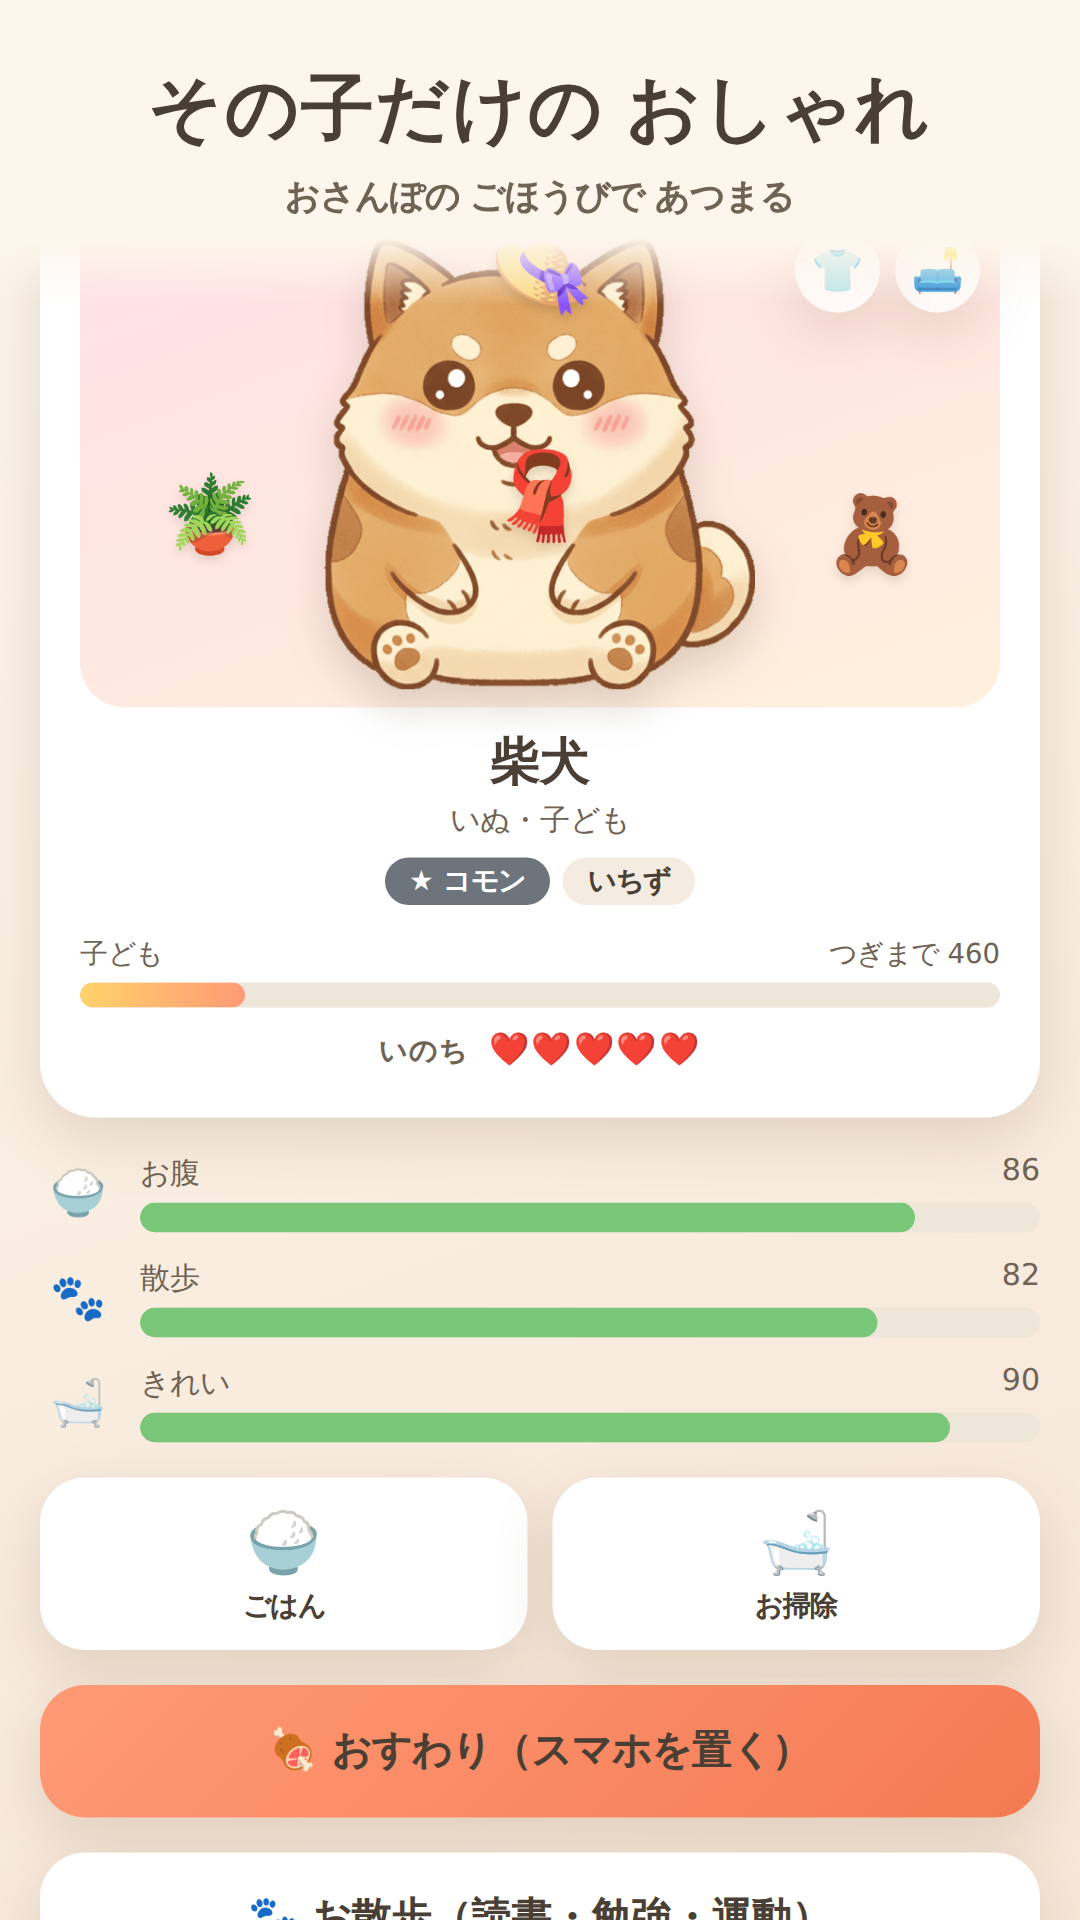
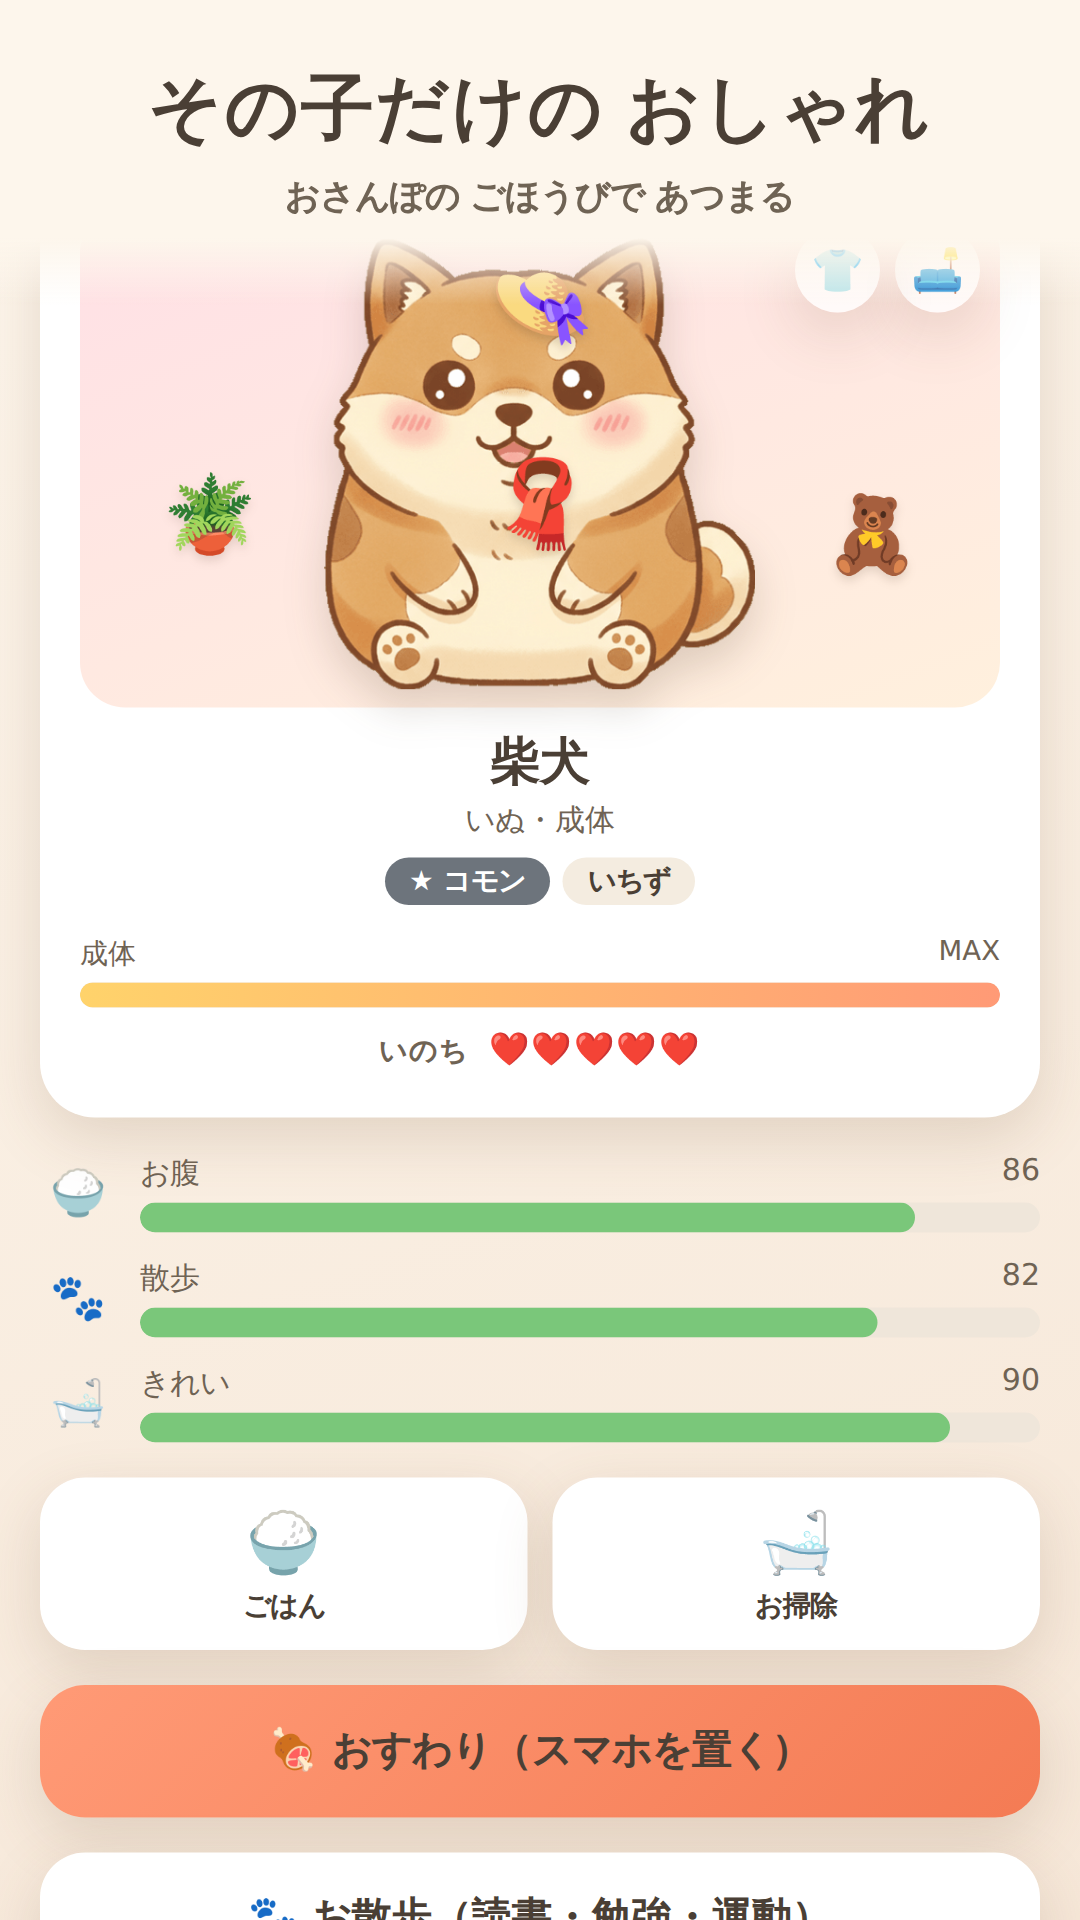
成長段階の縮小表示にきせかえ・模様レイヤーを追従（リグレッション修正）
前コミットで成長段階の絵を縮小表示にした際、重ねレイヤーが元の原寸のままで
赤ちゃん/子どもだと かざりが宙に浮き、模様も体からずれていた（ストア4枚目で発覚）。

- fitToPetArt(): 表示中の絵と同じ bottom-center 基準で scale する共通ヘルパを追加
  （.pet-wear は left:50%+translateX(-50%) の固定192px枠なので % 指定ではなく transform で合わせる）
- ホームのきせかえ層・模様層、きせかえエディタの配置層に適用。
  エディタのドラッグ座標系も絵の矩形基準に修正（縮小中でも指の位置と一致する）
- 回帰用スナップショット home-dressed-baby / home-dressed-adult を追加し目視確認
- ストア素材は成体(xp900)で撮影するよう変更（絵が原寸＝DESIGN.md §10「顔が画面の1/3以上」を満たす）。
  麦わらの位置も微調整して全13点を再生成

unit 44・E2E 26 すべて緑

Claude-Session: https://claude.ai/code/session_01HXj7nsinXTwSULfXn8piTK

diff --git a/docs/app/js/ui.js b/docs/app/js/ui.js
@@ -668,11 +668,24 @@
   var RARE_WEAR_IDS = Engine.MILESTONES.map(function (m) { return m.wear; });
   // 装備中のアクセサリをペットの上に重ねる（home stage）
   // 着けているアクセサリを ペットの上に自由配置(x,y=0..1)で重ねる
+  // 重ねレイヤー（きせかえ・模様）を「表示中のペット絵」と同じ大きさ・位置にそろえる。
+  // 成長段階の絵は下寄せ中央で縮小して描くので、レイヤーも bottom-center 基準で同率に縮める。
+  // base は要素がもともと必要とする transform（.pet-wear の translateX(-50%) など）。
+  function fitToPetArt(el, info, base) {
+    var s = (info && info.scale > 0 && info.scale < 1) ? info.scale : 1;
+    el.style.transformOrigin = 'bottom center';
+    el.style.transform = (base || '') + (s < 1 ? ' scale(' + s + ')' : '');
+  }
+  function petArtInfo() {
+    return Art.stageSpriteInfo ? Art.stageSpriteInfo(Engine.breed(), Engine.stage()) : null;
+  }
+
   function renderWear() {
     var el = $('petWear'); if (!el) return;
     var items = Engine.wardrobe().items || [];
     if (!items.length || Engine.stage() === 0) { el.style.display = 'none'; el.innerHTML = ''; return; }
     el.style.display = 'block';
+    fitToPetArt(el, petArtInfo(), 'translateX(-50%)'); // .pet-wear は left:50% ＋ 中央寄せ transform が前提
     el.innerHTML = items.map(function (p) {
       var it = WEAR[p.id]; if (!it) return '';
       return '<span class="pet-wear-item" style="left:' + (p.x * 100) + '%;top:' + (p.y * 100) + '%">' + it.e + '</span>';
@@ -709,14 +722,7 @@
     var layer = document.createElement('div');
     layer.className = 'pet-mark'; // 表示中の絵と同じ領域を覆い、スプライト形にマスク＝体外はカット
     if (spr) { var u = "url('assets/sprites/" + spr + ".png')"; layer.style.webkitMaskImage = u; layer.style.maskImage = u; }
-    if (info && info.scale < 1) {
-      // 縮小表示（下寄せ・中央）に合わせてマスク層も同じ矩形へ
-      layer.style.inset = 'auto';
-      layer.style.bottom = '0';
-      layer.style.left = ((1 - info.scale) / 2 * 100) + '%';
-      layer.style.width = (info.scale * 100) + '%';
-      layer.style.height = (info.scale * 100) + '%';
-    }
+    fitToPetArt(layer, info);
     var sym = document.createElement('span');
     sym.className = 'pet-mark-sym';
     sym.textContent = MARK_SYM[mk];
@@ -782,6 +788,11 @@
     var edit = m.root.querySelector('#wearEdit');
     var petBox = m.root.querySelector('#wearEditPet');
     if (petBox && Engine.stage() > 0) Art.mount(petBox, Art.petSVG(Engine.breed(), Engine.stage(), 'happy'));
+    // アクセサリはペット絵と同じ矩形の中に置く（成長段階で絵が縮むので座標系を合わせる）
+    var wearLayer = document.createElement('div');
+    wearLayer.style.cssText = 'position:absolute;left:0;top:0;width:100%;height:100%';
+    fitToPetArt(wearLayer, petArtInfo());
+    edit.appendChild(wearLayer);
     function paintWear() {
       // ペット絵は残し、アクセサリだけ差し替え
       Array.prototype.forEach.call(edit.querySelectorAll('.wear-edit-item'), function (n) { n.remove(); });
@@ -792,7 +803,7 @@
         span.setAttribute('data-index', i);
         span.style.left = (p.x * 100) + '%'; span.style.top = (p.y * 100) + '%';
         span.innerHTML = it.e + '<button class="room-edit-x" data-del="' + i + '" aria-label="ぬぐ">×</button>';
-        edit.appendChild(span);
+        wearLayer.appendChild(span);
       });
     }
     paintWear();
@@ -826,7 +837,7 @@
     });
     edit.addEventListener('pointermove', function (e) {
       if (!drag) return;
-      var rect = edit.getBoundingClientRect();
+      var rect = wearLayer.getBoundingClientRect(); // 座標系はペット絵の矩形
       var x = Math.max(0, Math.min(1, (e.clientX - rect.left) / rect.width));
       var y = Math.max(0, Math.min(1, (e.clientY - rect.top) / rect.height));
       drag.el.style.left = (x * 100) + '%'; drag.el.style.top = (y * 100) + '%';

diff --git a/www/js/ui.js b/www/js/ui.js
@@ -668,11 +668,24 @@
   var RARE_WEAR_IDS = Engine.MILESTONES.map(function (m) { return m.wear; });
   // 装備中のアクセサリをペットの上に重ねる（home stage）
   // 着けているアクセサリを ペットの上に自由配置(x,y=0..1)で重ねる
+  // 重ねレイヤー（きせかえ・模様）を「表示中のペット絵」と同じ大きさ・位置にそろえる。
+  // 成長段階の絵は下寄せ中央で縮小して描くので、レイヤーも bottom-center 基準で同率に縮める。
+  // base は要素がもともと必要とする transform（.pet-wear の translateX(-50%) など）。
+  function fitToPetArt(el, info, base) {
+    var s = (info && info.scale > 0 && info.scale < 1) ? info.scale : 1;
+    el.style.transformOrigin = 'bottom center';
+    el.style.transform = (base || '') + (s < 1 ? ' scale(' + s + ')' : '');
+  }
+  function petArtInfo() {
+    return Art.stageSpriteInfo ? Art.stageSpriteInfo(Engine.breed(), Engine.stage()) : null;
+  }
+
   function renderWear() {
     var el = $('petWear'); if (!el) return;
     var items = Engine.wardrobe().items || [];
     if (!items.length || Engine.stage() === 0) { el.style.display = 'none'; el.innerHTML = ''; return; }
     el.style.display = 'block';
+    fitToPetArt(el, petArtInfo(), 'translateX(-50%)'); // .pet-wear は left:50% ＋ 中央寄せ transform が前提
     el.innerHTML = items.map(function (p) {
       var it = WEAR[p.id]; if (!it) return '';
       return '<span class="pet-wear-item" style="left:' + (p.x * 100) + '%;top:' + (p.y * 100) + '%">' + it.e + '</span>';
@@ -709,14 +722,7 @@
     var layer = document.createElement('div');
     layer.className = 'pet-mark'; // 表示中の絵と同じ領域を覆い、スプライト形にマスク＝体外はカット
     if (spr) { var u = "url('assets/sprites/" + spr + ".png')"; layer.style.webkitMaskImage = u; layer.style.maskImage = u; }
-    if (info && info.scale < 1) {
-      // 縮小表示（下寄せ・中央）に合わせてマスク層も同じ矩形へ
-      layer.style.inset = 'auto';
-      layer.style.bottom = '0';
-      layer.style.left = ((1 - info.scale) / 2 * 100) + '%';
-      layer.style.width = (info.scale * 100) + '%';
-      layer.style.height = (info.scale * 100) + '%';
-    }
+    fitToPetArt(layer, info);
     var sym = document.createElement('span');
     sym.className = 'pet-mark-sym';
     sym.textContent = MARK_SYM[mk];
@@ -782,6 +788,11 @@
     var edit = m.root.querySelector('#wearEdit');
     var petBox = m.root.querySelector('#wearEditPet');
     if (petBox && Engine.stage() > 0) Art.mount(petBox, Art.petSVG(Engine.breed(), Engine.stage(), 'happy'));
+    // アクセサリはペット絵と同じ矩形の中に置く（成長段階で絵が縮むので座標系を合わせる）
+    var wearLayer = document.createElement('div');
+    wearLayer.style.cssText = 'position:absolute;left:0;top:0;width:100%;height:100%';
+    fitToPetArt(wearLayer, petArtInfo());
+    edit.appendChild(wearLayer);
     function paintWear() {
       // ペット絵は残し、アクセサリだけ差し替え
       Array.prototype.forEach.call(edit.querySelectorAll('.wear-edit-item'), function (n) { n.remove(); });
@@ -792,7 +803,7 @@
         span.setAttribute('data-index', i);
         span.style.left = (p.x * 100) + '%'; span.style.top = (p.y * 100) + '%';
         span.innerHTML = it.e + '<button class="room-edit-x" data-del="' + i + '" aria-label="ぬぐ">×</button>';
-        edit.appendChild(span);
+        wearLayer.appendChild(span);
       });
     }
     paintWear();
@@ -826,7 +837,7 @@
     });
     edit.addEventListener('pointermove', function (e) {
       if (!drag) return;
-      var rect = edit.getBoundingClientRect();
+      var rect = wearLayer.getBoundingClientRect(); // 座標系はペット絵の矩形
       var x = Math.max(0, Math.min(1, (e.clientX - rect.left) / rect.width));
       var y = Math.max(0, Math.min(1, (e.clientY - rect.top) / rect.height));
       drag.el.style.left = (x * 100) + '%'; drag.el.style.top = (y * 100) + '%';

diff --git a/tools/gen_store_shots.js b/tools/gen_store_shots.js
@@ -24,8 +24,10 @@ const T0 = 1751850000000; // 固定時刻（決定論）
 
 // ---- 撮影に使うセーブ（見栄え重視の健康な状態） ----
 function pet(over) {
+  // 成体（xp>=760）で撮る: 絵が原寸で最大になり「ペットの顔が画面の1/3以上」(DESIGN.md §10)を満たす。
+  // 子ども以下は成長段階で縮小表示されるため、ヒーローカットには使わない。
   return Object.assign({
-    breedId: 'shiba', xp: 300, hunger: 86, clean: 90,
+    breedId: 'shiba', xp: 900, hunger: 86, clean: 90,
     health: 100, sanpo: 82, runawayH: 0, away: false, careCount: 12,
     mark: 'none', eyeStyle: 'batchiri'
   }, over || {});
@@ -69,7 +71,7 @@ const SHOTS = [
   {
     name: '4-kisekae', copy: 'その子だけの おしゃれ', sub: 'おさんぽの ごほうびで あつまる',
     save: save({
-      wardrobe: { owned: { ribbon: 1, straw: 1, scarf: 1, flower: 1 }, items: [{ id: 'straw', x: 0.5, y: 0.1 }, { id: 'scarf', x: 0.5, y: 0.56 }] },
+      wardrobe: { owned: { ribbon: 1, straw: 1, scarf: 1, flower: 1 }, items: [{ id: 'straw', x: 0.5, y: 0.16 }, { id: 'scarf', x: 0.5, y: 0.58 }] },
       room: { bg: 'sakura', items: [{ id: 'l_plant', x: 0.14, y: 0.62 }, { id: 'r_bear', x: 0.86, y: 0.66 }] }
     }),
     steps: [{ wait: 900 }]

diff --git a/docs/app/index.html b/docs/app/index.html
@@ -5,7 +5,7 @@
   <meta name="viewport" content="width=device-width, initial-scale=1.0, maximum-scale=1.0, user-scalable=no">
   <meta name="theme-color" content="#fdf6ec">
   <title>いぬねこ図鑑 — スマホをはなれて そだてる いぬねこ</title>
-  <link rel="stylesheet" href="css/styles.css?v=mrbkua6m">
+  <link rel="stylesheet" href="css/styles.css?v=mt431jzr">
 </head>
 <body>
   <div id="app">
@@ -53,12 +53,12 @@
   <div id="modalRoot"></div>
   <div id="toast"></div>
 
-  <script src="js/native.js?v=mrbkua6m"></script>
-  <script src="js/breeds.js?v=mrbkua6m"></script>
-  <script src="js/art.js?v=mrbkua6m"></script>
-  <script src="assets/sprites/manifest.js?v=mrbkua6m"></script>
-  <script src="assets/sprites/eyepos.js?v=mrbkua6m"></script>
-  <script src="js/engine.js?v=mrbkua6m"></script>
-  <script src="js/ui.js?v=mrbkua6m"></script>
+  <script src="js/native.js?v=mt431jzr"></script>
+  <script src="js/breeds.js?v=mt431jzr"></script>
+  <script src="js/art.js?v=mt431jzr"></script>
+  <script src="assets/sprites/manifest.js?v=mt431jzr"></script>
+  <script src="assets/sprites/eyepos.js?v=mt431jzr"></script>
+  <script src="js/engine.js?v=mt431jzr"></script>
+  <script src="js/ui.js?v=mt431jzr"></script>
 </body>
 </html>

diff --git a/tests/visual/scenarios.js b/tests/visual/scenarios.js
@@ -176,6 +176,18 @@ module.exports = {
       steps: [{ wait: 300 }]
     },
     {
+      // 成体（縮小なし）で着せた状態。赤ちゃん版と見比べて、かざりが絵と一緒に縮むことを確認する
+      name: 'home-dressed-adult',
+      save: saveBase({ current: petBase({ xp: 800 }), wardrobe: { owned: { crown: 1, glasses: 1 }, items: [{ id: 'crown', x: 0.5, y: 0.1 }, { id: 'glasses', x: 0.5, y: 0.38 }] } }),
+      steps: [{ wait: 300 }]
+    },
+    {
+      // 赤ちゃん（縮小表示）で着せた状態。かざりが宙に浮かないこと（縮小レイヤー追従）の回帰チェック
+      name: 'home-dressed-baby',
+      save: saveBase({ current: petBase({ xp: 10 }), wardrobe: { owned: { crown: 1, glasses: 1 }, items: [{ id: 'crown', x: 0.5, y: 0.1 }, { id: 'glasses', x: 0.5, y: 0.38 }] } }),
+      steps: [{ wait: 300 }]
+    },
+    {
       // 体に記号模様（★レア）がある個体
       name: 'home-mark',
       save: saveBase({ current: petBase({ xp: 300, mark: 'star' }) }),
